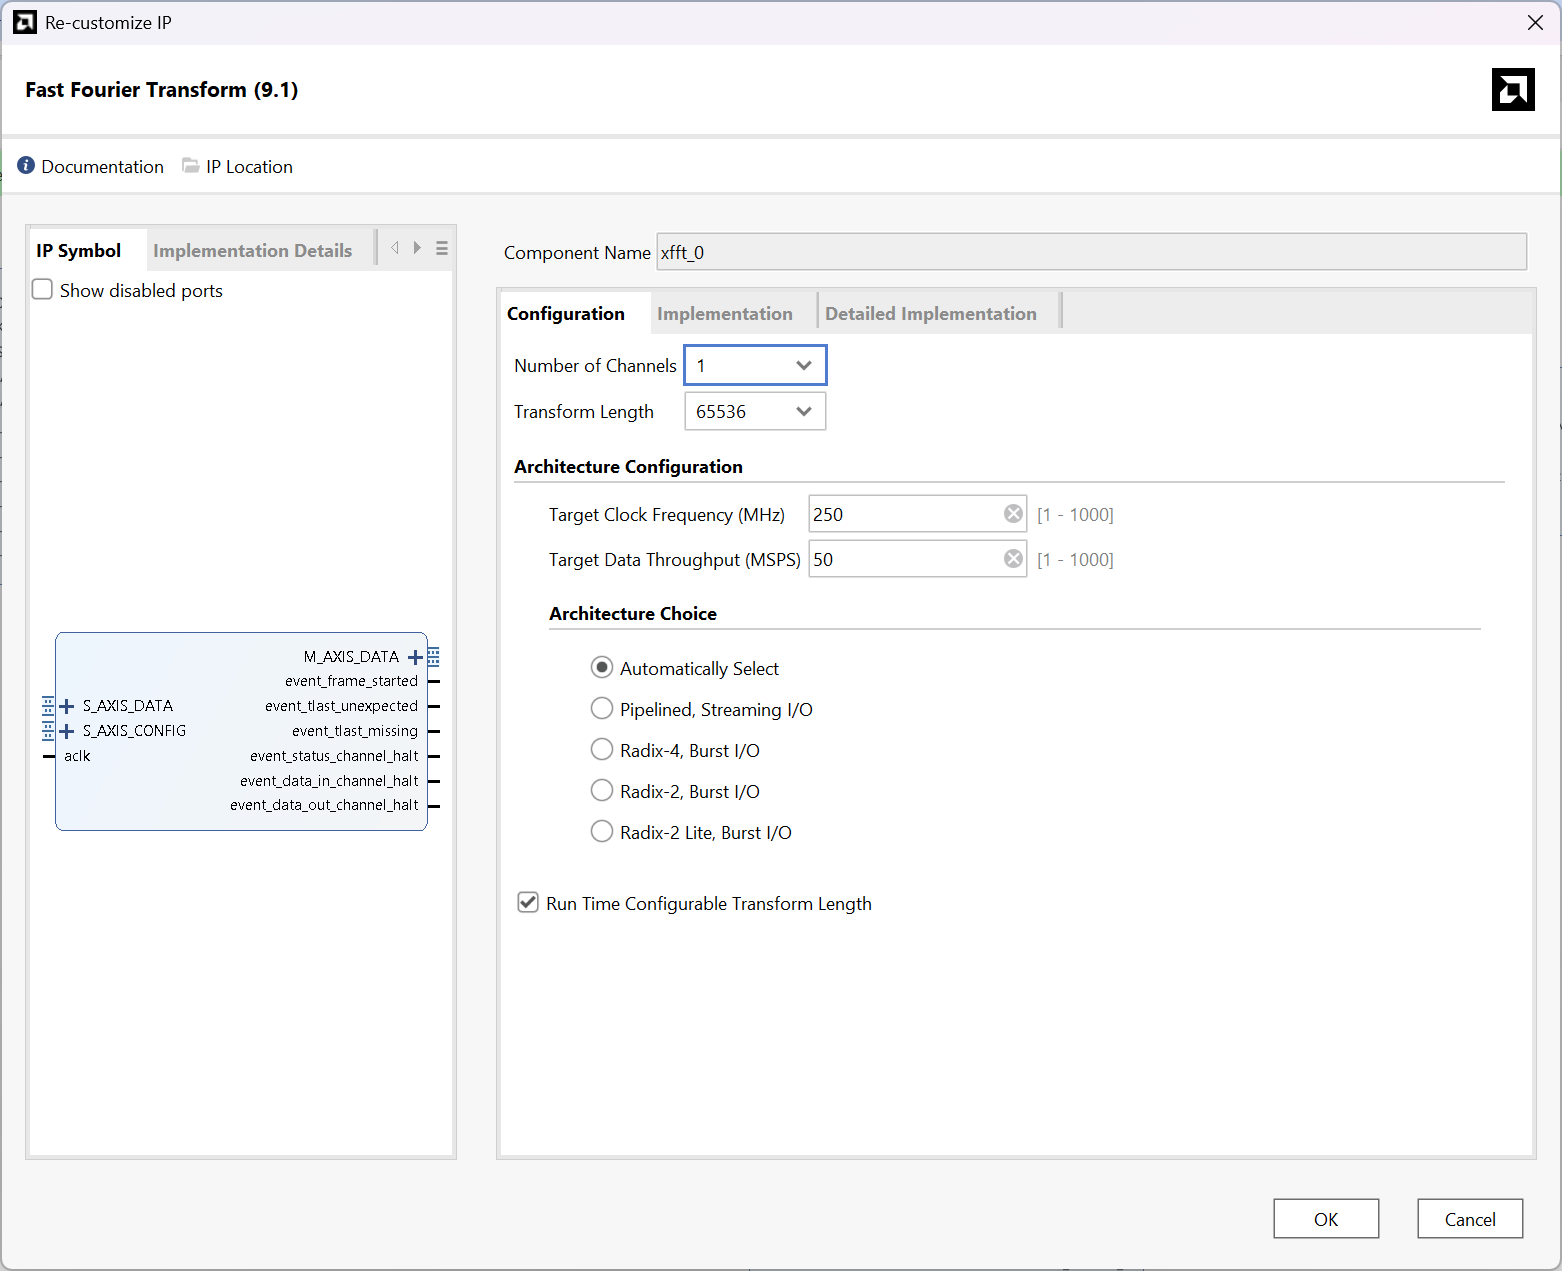
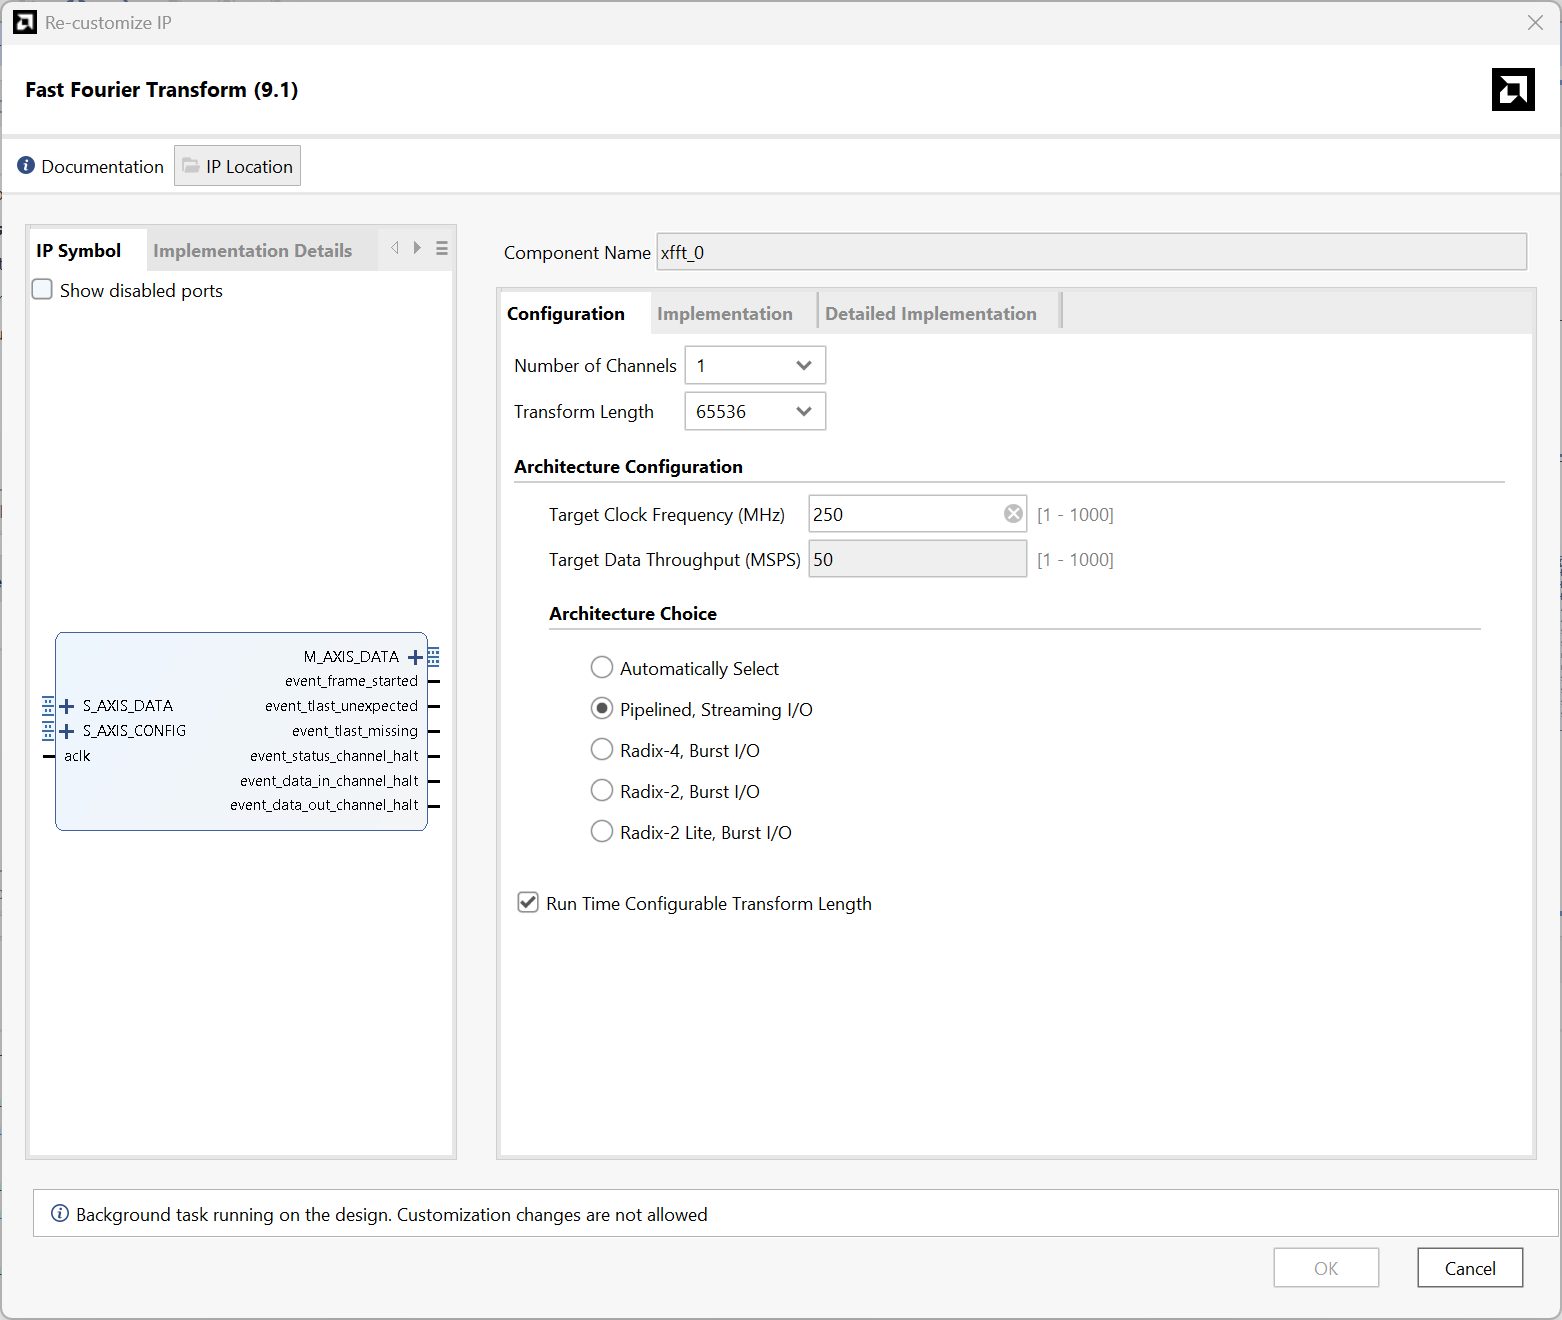
update Jupyter Notebook tutorial, FFT IP configuration minor changed

diff --git a/LAB1/LAB1_JUPYTER.md b/LAB1/LAB1_JUPYTER.md
@@ -1,3 +1,185 @@
 ## LAB 1: Pynq-Z2 board w. FFT example
 
+### Environmental Setup
+
+#### PORTS
+
+&emsp;Below is an overview of the interfaces frequently used in this course.
+
+| Port | Description |  
+| :-- | :-- |  
+| `LAN` | Ethernet port used by Pynq to host the Jupyter Notebook server |
+| `USB` | Serial port for communication between Pynq and the host device *(Type-B Micro)* |
+| `PWR SW` | Physical power switch for the Pynq board |
+
+![PYNQ_PORT_DESC](./images/1-p1.JPG)
+
+---
+
+#### Connections
+
+&emsp;Before accessing the Pynq board, establish the following network environment:
+
+```
+# connection diagram
+
+┌─────────┐    wired or    ┌──────┐   # HOST can by any device capable of 
+│         ├─ wireless LAN ─┤ HOST │   # accessing the local network provided
+│ Network │                └───┬──┘   # by the Network Router.
+│         │                   USB
+│ Router  │               ┌────┴────┐
+│         ├── wired LAN ──┤ Pynq-Z2 │
+└─────────┘               └─────────┘
+```
+
+&emsp;Once the environment is set up, power on both `HOST` and `Pynq-Z2`. Then, run the following command in the `HOST`'s terminal (e.g., `PowerShell` on Windows or `Terminal` in Linux):
+
+```Bash
+ping pynq
+```
+
+&emsp;Expected output:
+
+```Bash
+# Windows
+Pinging pynq [X.X.X.X] with 32 bytes of data:
+...
+
+# Linux
+PING pynq (X.X.X.X) 56(84) bytes of data.
+...
+```
+
+&emsp;Once a response is received, the Pynq board's **ip address** (X.X.X.X) is confirmed. The ip address may change every time the Pynq board is rebooted, so always run `ping` before using the board.
+
+&emsp;Open a web browser and navigate to the **ip address** &mdash; you will be redirected to the Jupyter Notebook login screen.
+
+![JUPYTER_LOGIN](./images/1-p2.png)
+
+&emsp;Enter `xilinx` as the password and click ***Log in***. You may remove any of the default folders and files if desired.
+
+</br>
+
+---
+
 ### Jupyter Notebook Tutorial
+
+1. Upload the `.bit` and `.hwh` files to the Jupyter Notebook.  
+   > **NOTE**   
+   > Both files must share the same filename, differing only in their extensions.
+
+    ![UPLOADED_FILES](./images/1-p3.png)
+
+    ---
+
+1. Press ***New*** → ***Python 3 (ipykernel)*** to make new Notebook file.
+
+    ![NEW_NOTEBOOK](./images/1-p4.png)
+
+    ---
+
+1. Enter the following script in the notebook and execute it:  
+
+    ***`In [1]:`***  
+    ```python
+    from pynq import Overlay, allocate
+
+    overlay = Overlay( "<YOUR_BITSTREAM_FILENAME_IN_STR>" )
+                        # e.g., "lab1_design.bit"
+    ```
+
+    ***`In [2]:`***  
+    ```python
+    [attr for attr in dir(overlay) if not attr.startswith('_')]
+    ```
+
+    Expected output:
+
+    ***`Out [2]:`***  
+    ```python
+    [...,
+     'axi_dma_0',
+     'axi_dma_1',
+     'axi_dma_2',
+     ...,
+     'processing_system7_0',
+     ...]
+    ```
+
+    As shown, you can access each DMA object through its name.
+
+    ---
+
+1. Bundle the DMAs into a single `DMA` class:
+
+    ***`In [4]:`***  
+    ```python
+    class DMA:
+        IN  = overlay.axi_dma_0
+        CFG = overlay.axi_dma_1
+        OUT = overlay.axi_dma_2
+    ```
+
+    We also need a buffer-like object to store data in a DMA-transferable format.
+
+    ***`In [5]:`***
+    ```python
+    class Buffer:
+        def __init__(self, logN):
+            self.logN = logN
+            self.N = 2 ** logN
+        
+            self.IN  = allocate(shape=(self.N,), dtype='uint32')
+            self.CFG = allocate(shape=(1,), dtype='uint32')
+            self.OUT = allocate(shape=(self.N,), dtype='uint32')
+    ```
+
+1. Write the following script for the main kernel:
+
+    ***`In [6]:`***
+    ```python
+    import math
+    import numpy as np
+
+    def run_hw_fft(data: np.ndarray):
+        # gatekeeper handling unexpected length of data
+        logN = math.ceil(math.log2(len(data)))
+        assert logN <= 16, \
+        "current overlay cannot handle the large size of FFT kernel exceeds 65536"
+    
+        # create buffer object and zero-padding to data
+        BUFFER = Buffer(logN)
+        data = np.append(data, np.zeros(BUFFER.N-len(data), dtype=data.dtype))
+    
+        # transfer FFT configuration
+        BUFFER.CFG[0] = BUFFER.logN
+        DMA.CFG.sendchannel.transfer(BUFFER.CFG)
+        DMA.CFG.sendchannel.wait()
+    
+        # transfer FFT data
+        np.copyto(BUFFER.IN, data)
+        DMA.IN.sendchannel.transfer(BUFFER.IN)
+        DMA.OUT.recvchannel.transfer(BUFFER.OUT)
+    
+        # wait DMA transfer to be done
+        DMA.IN.sendchannel.wait()
+        DMA.OUT.recvchannel.wait()
+    
+        return BUFFER.OUT
+    ```
+
+    ***`In [7]:`***
+    ```python
+    sample = np.random.randint(20, size=(1000,), dtype='uint32')
+    run_hw_fft(sample)
+    ```
+
+    Example output:
+
+    ***`Out [7]:`***  
+    ```python
+    PynqBuffer([      9591,        149,    8716312, ..., 4294639587,
+                   3145666, 4289986332], dtype=uint32)
+    ```
+
+1. Based on this tutorial, write your own driver code for the questions posed in the report.

diff --git a/LAB1/LAB1_VIVADO.md b/LAB1/LAB1_VIVADO.md
@@ -139,6 +139,7 @@
 
 1. Configure FFT as next:
     - Transform Length = 65536  
+    - Architecture Choice = Pipelined, Streaming I/O
     - Enable ***Run Time Configurable Transform Length***
 
     ![FFT_CONF](./images/1-19.png)
